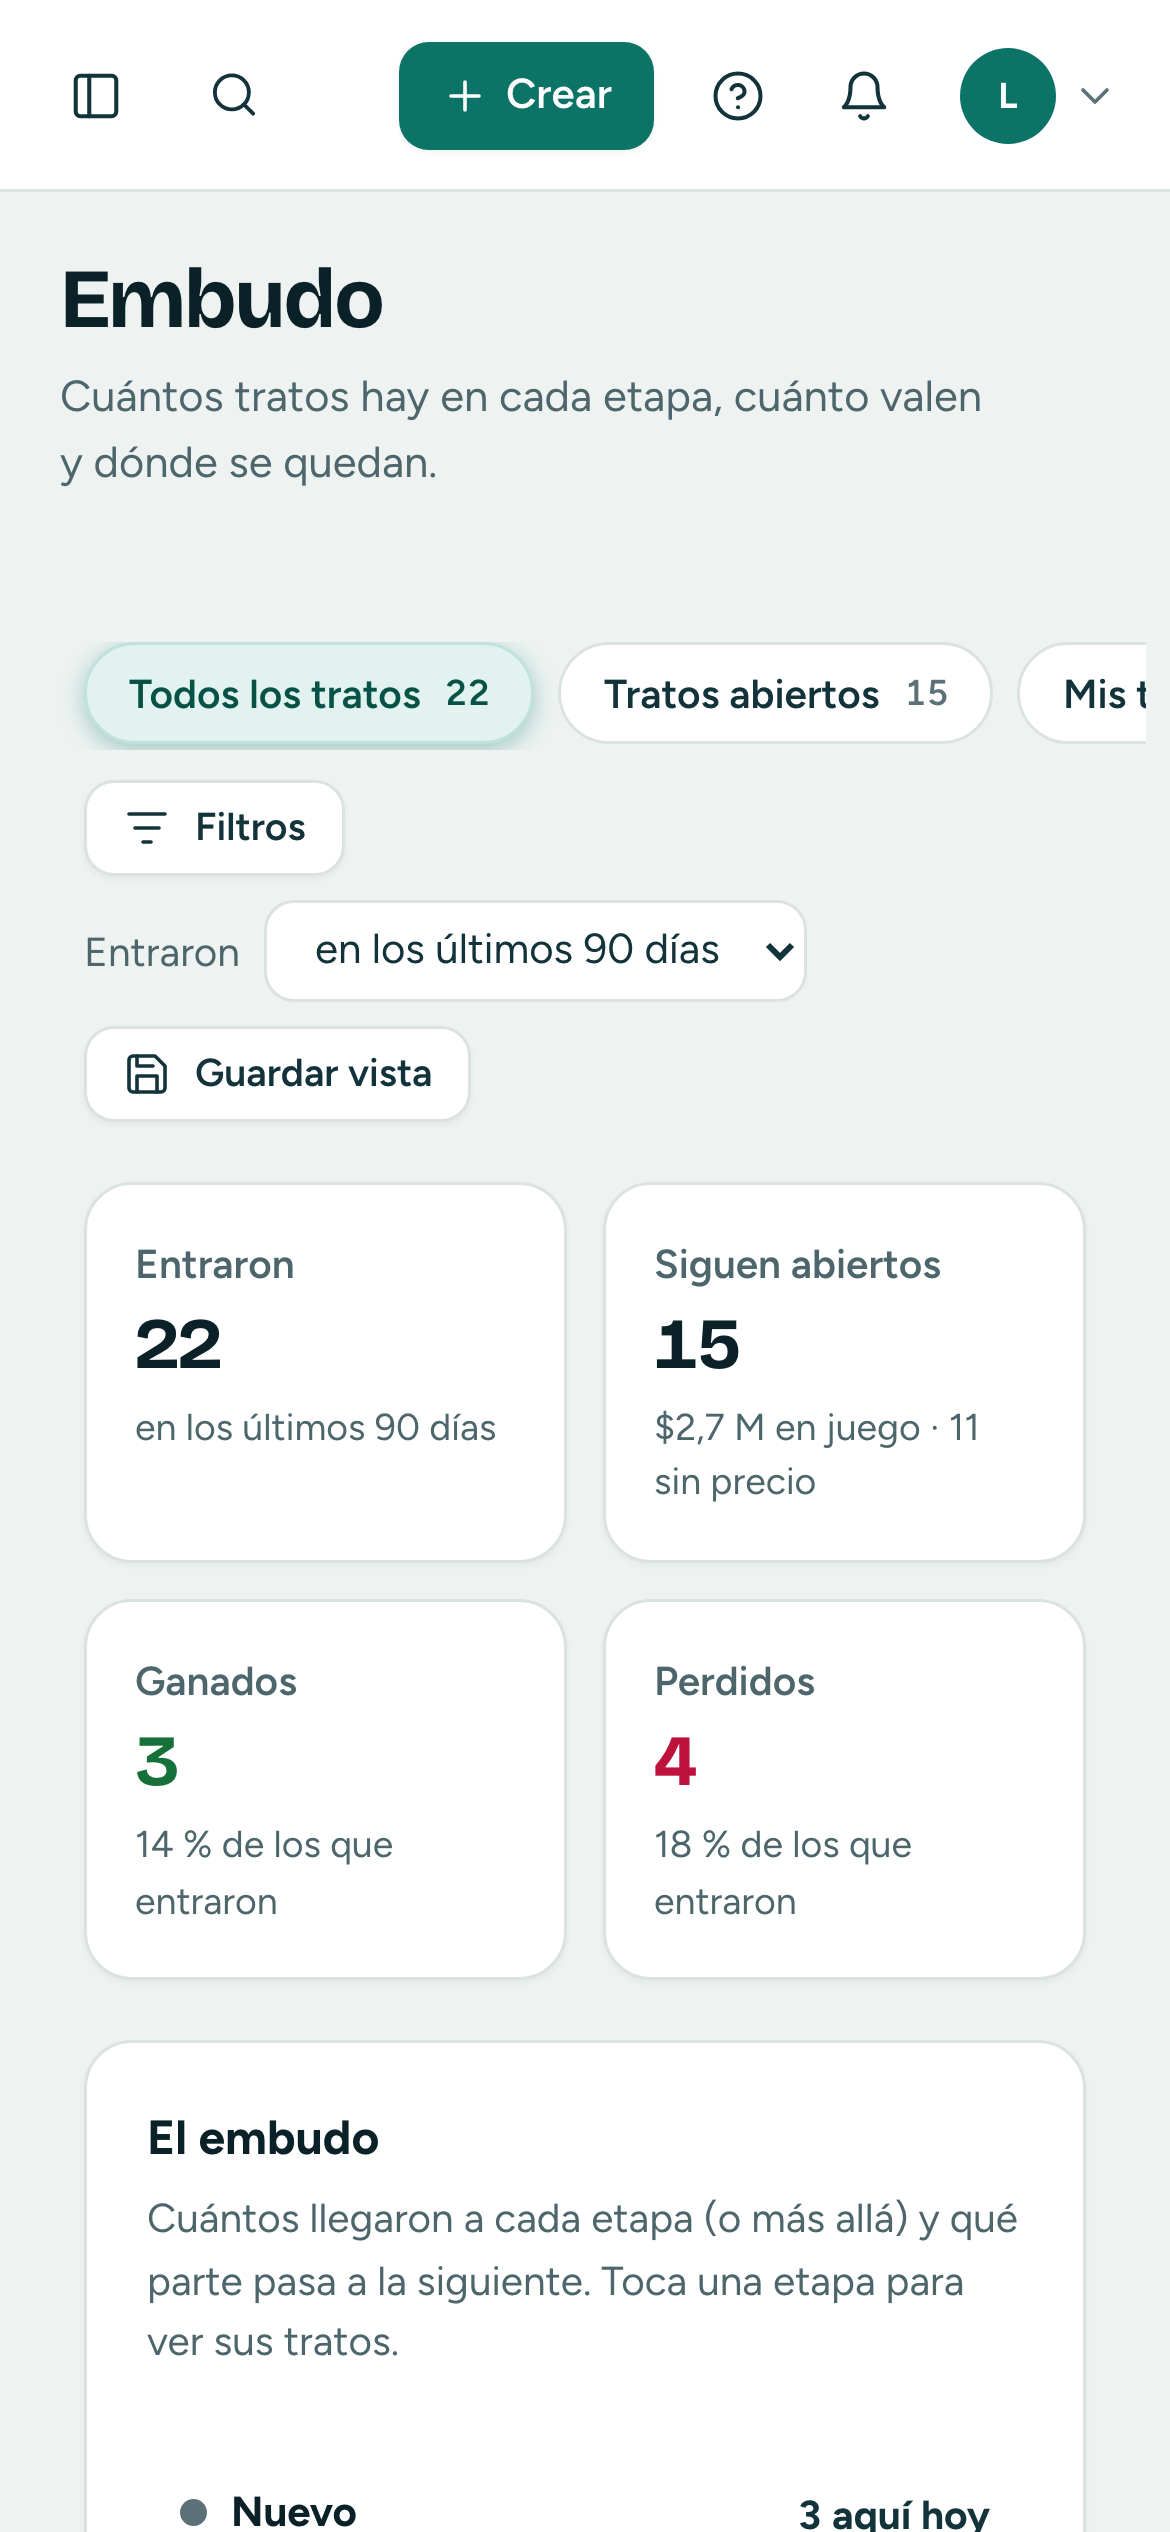
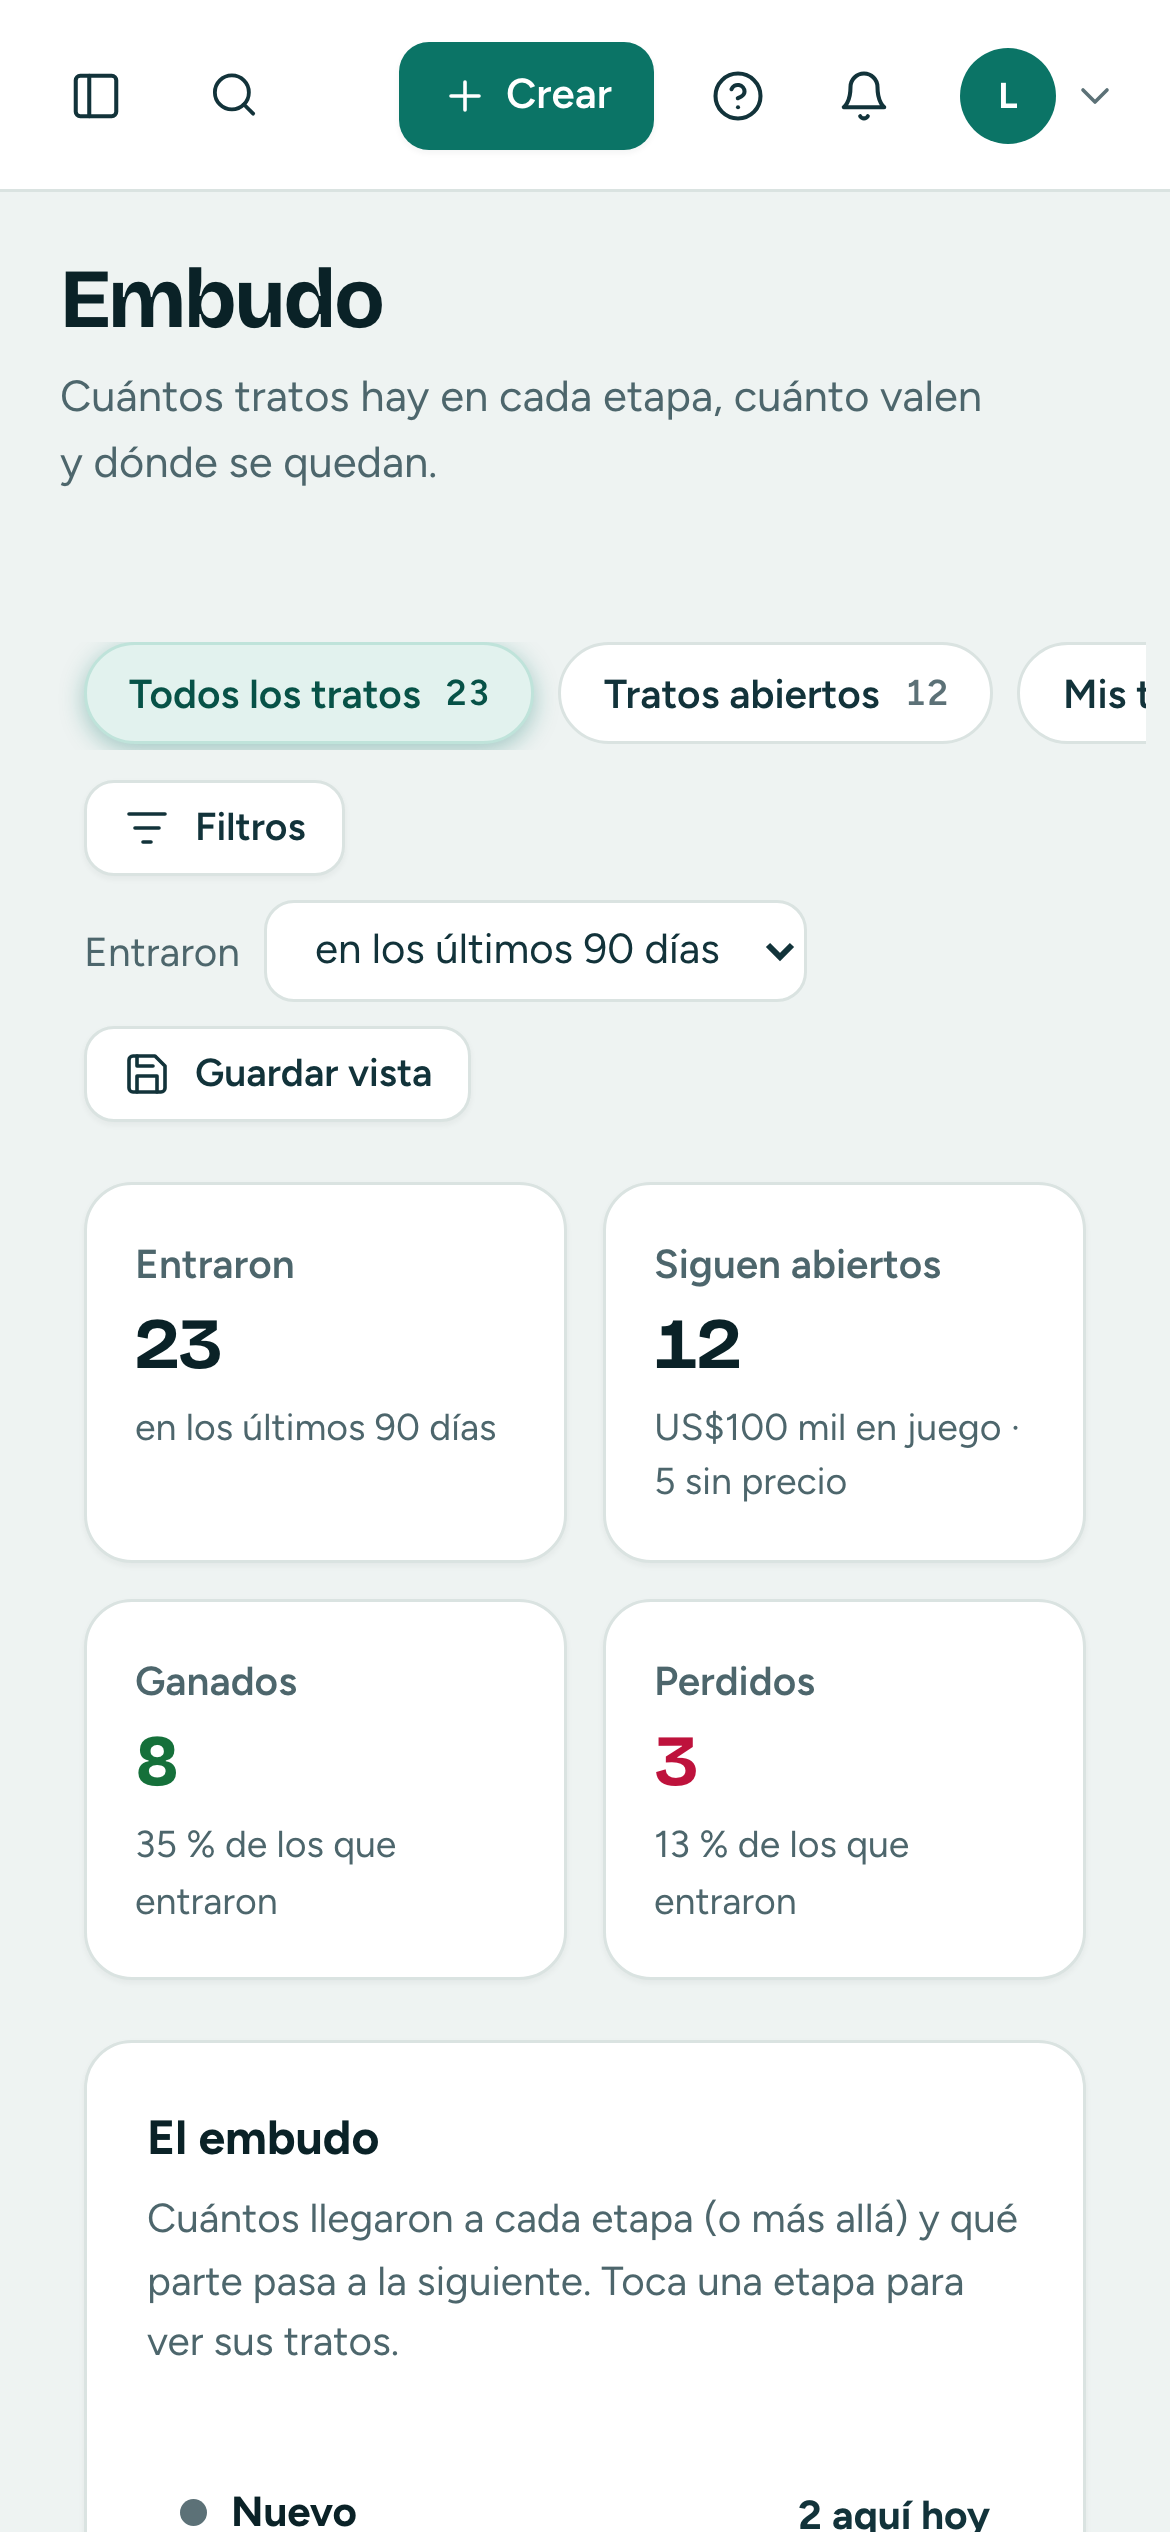
Bitácora, guía, checkpoint y capturas: Servicio, todo configurable y XENTRIS LLC
Las capturas se rehicieron con el ejemplo de XENTRIS LLC y cuenta de
administrador, solo en claro (como pidió el usuario): las 21 pantallas a 1440
(doble resolución) y a 390, con el área Servicio (Tickets, SLA,
Mantenimientos y actualizaciones) y Configuración (SLA y tickets,
Mantenimientos, Reglas y umbrales, Modelos de IA).

diff --git a/docs/xencrm.md b/docs/xencrm.md
@@ -8,12 +8,14 @@ este documento cambia, lo dice.
 
 ## El brief
 
-- **Sujeto**: el tablero donde el equipo de un negocio (DUNOR, una boutique con cita previa, es el primero) atiende
+- **Sujeto**: el tablero donde el equipo de un negocio (el ejemplo es XENTRIS LLC, una firma de software) atiende
   lo que llega por WhatsApp y por el chat del sitio, donde XEN —el agente de IA— contesta primero. Cada persona es un
-  contacto con su trato (etapa, valor, próximo paso) y sus citas.
-- **Audiencia**: asesores de venta y quien administra. En el computador de la tienda casi siempre, y en el celular
-  cuando están fuera. Con prisa: entre un cliente y otro.
-- **El trabajo**: que nadie se quede esperando y que ningún trato se enfríe sin que alguien lo vea.
+  contacto con su trato (etapa, valor, próximo paso), sus citas (o demos: la palabra la pone el negocio) y, si ya es
+  cliente, sus tickets.
+- **Audiencia**: asesores de venta, soporte y quien administra. En el computador de la oficina casi siempre, y en el celular
+  cuando están fuera. Con prisa: entre un cliente y otro. Y el equipo de soporte, que vive en Servicio.
+- **El trabajo**: que nadie se quede esperando, que ningún trato se enfríe sin que alguien lo vea y que lo prometido
+  a cada cliente (su SLA) se cumpla.
 
 ## Una sola piel
 
@@ -188,6 +190,42 @@ Lo que comparten las pantallas de Servicio (el contrato):
   notas, estado (publicada·planeada) }] }`. Lo siembra `crm/servicio-demo.ts`.
 
 
+### Cómo quedó Servicio y la configuración
+
+**Todo configurable.** El usuario lo pidió así: «todo debe ser configurable; la configuración hazla tan extensa como
+sea posible, no dejando nada por fuera». Toda regla de negocio se resuelve en **tres capas**, y manda la última que
+tenga valor: la **fábrica** (en el código) → el **archivo del cliente** (`xencrm.config.json`) → el **tablero**
+(Configuración, solo quien administra; en settings). Cada pantalla de configuración dice de qué capa sale cada valor
+y tiene «Volver al de fábrica»; guardar es todo o nada y lo escrito no se borra si algo no vale.
+
+| Dónde | Qué se configura |
+|---|---|
+| Configuración › **Reglas y umbrales** (`src/reglas.ts`, `reglas.<id>`, sección `reglas` del archivo) | 64 reglas: los cortes y los 16 pesos del puntaje, el silencio, seguimientos, cuentas clave (los 21 y 45 días), los 16 mínimos de Optimización, el embudo, Inicio, el acuerdo de respuesta, contactos, fijados, presencia, respuestas rápidas. Y la lista de lo que se configura en otro sitio, con su enlace |
+| Configuración › **SLA y tickets** (`crm/tickets.ts`, `servicio.sla`) | Planes (con alias), «sin plan», prioridades, tipos, estados (cuáles cierran y cuáles pausan), objetivos de primera respuesta y solución por plan × prioridad en reloj hábil o 24/7, el horario de soporte, «En riesgo» (75 %), la regla de primera respuesta, los campos de plan y producto, y quién crea, mueve y cambia las políticas |
+| Configuración › **Mantenimientos y actualizaciones** (`crm/mantenimientos-reglas.ts`, `servicio.mantenimientos`) | Aviso mínimo por plan (48 h · 72 h · 7 días), cadencia de actualizaciones (31 días, y por aplicación), días de gracia, aplicaciones, estados, quién cuenta como afectado y cómo se compara la aplicación, la plantilla del aviso (12 variables, con vista previa), si el aviso cuenta al salir o al prepararse, y quién programa. Los planes son los vigentes del SLA (las tres capas) |
+| `xencrm.config.json` › **`interfaz`** (`src/vocabulario.ts`) | Cómo se llama lo que se agenda (cita, demo, turno… y su género: «el turno agendado»), la bienvenida, los ejemplos de los campos y la portada. Unos 70 textos del tablero y 20 del servidor salen de aquí |
+| Lo que ya existía | El negocio, Perfil, El asistente, Modelos de IA, Lo que sabe, Canales, las metas de KPIs, el embudo (`crm.stages`), los datos captados (`crm.fields`), la agenda (`appointments`) |
+
+**Servicio**, pantalla por pantalla:
+
+- **Tickets**: cada uno con el estado del SLA en palabra e ícono (Incumplido · En riesgo · A tiempo · En pausa ·
+  Cumplido · Sin SLA) y el reloj en una frase («Responder antes de las 3:40 p. m. · en 2 h»); vistas Mis tickets,
+  Sin asignar, En riesgo, Incumplidos, Terminados; «Crear ticket» desde la Bandeja y la ficha, que muestra sus tickets.
+  El reloj hábil solo corre en el horario de soporte; «Esperando al cliente» pausa la solución (no la primera
+  respuesta); la primera respuesta es lo primero de: un mensaje de una persona del equipo (el agente de IA no
+  cuenta), «Marcar como respondido» o el cierre. Tabla `tickets`; se borran, unen y anonimizan con la ficha.
+- **SLA**: cumplimiento a 7 · 30 · 90 días con su base («4 de 5 tickets»), por plan y prioridad, medianas contra el
+  objetivo, lo que está en riesgo, y el resumen de mantenimientos y actualizaciones.
+- **Mantenimientos y actualizaciones**: ventanas con sus clientes afectados (ganados con el plan y la aplicación), el
+  estado del aviso de cada uno, y la cadencia por aplicación. **Ningún aviso sale solo**: «Preparar aviso» deja el
+  texto como propuesta en cada conversación y cuenta cuando de verdad salió (o con «Ya le avisé»).
+
+**El ejemplo** tiene 23 contactos por todo el embudo, planes en los ganados, 10 tickets en 8 clientes, 3 demos,
+mantenimientos y actualizaciones. **Las pruebas ya no dependen del ejemplo**: corren con su propio fixture
+(`src/eval/fixtures/boutique/`, «Atelier Demo», el antiguo contenido de DUNOR con datos de ficción), fijado con
+`XENCRM_CONFIG` en cada guion de `package.json`. Batería completa: 3433 bien, 0 fallas.
+
+## La suite (2026-11-11, segunda ronda)
 
 Sobre el mapa de Dynamics, cuatro pantallas nuevas, hechas en paralelo y unidas en `xencrm`. Todas se calculan en el
 servidor sobre lo guardado, **sin modelo y sin red**, y lo que no se sabe se dice («—», «Sin precios», «poca
@@ -209,10 +247,19 @@ evidencia»), nunca un cero inventado.
 - Pruebas nuevas: `test:embudo`, `test:kpis`, `test:kam`, `test:optimizacion`. Batería completa: 3069 bien, 0 fallas.
 
 ### Lo que queda abierto
+- Servicio: el Copiloto de Inicio todavía no propone los tickets en riesgo (su cifra es la suma de los recuadros de
+  Hoy; hay que rehacerla para sumarlos).
+- Tickets: en reloj hábil, el tiempo gastado deja de contarse a los 62 días (el vencimiento sí se decide bien).
+- Mantenimientos: preparar un aviso reemplaza la propuesta que hubiera en esa conversación (hay una sola por
+  conversación); los avisos de una ficha no se mudan al unir fichas.
+- Vocabulario: algunas respuestas al cliente conservan el pronombre de «cita» («yo la cancelo») con un nombre
+  masculino; la consola, `onboard` y las plantillas de `clientes/` siguen diciendo «cita».
+- Reglas: quedan por revisar la hora de los recordatorios (8:00 del día antes), `modo-prueba` (12 h), `entrantes`
+  (7 días) y `retener` (45 días).
 
 - La ficha como página no tiene «⋯»: el menú contextual de siempre cae debajo del diálogo.
-- Cuentas clave no se actualiza en vivo (se recarga al abrirla y tras cada acción); sus umbrales de 21 y 45 días están
-  fijos; quitar y volver a marcar reinicia el «desde».
+- Cuentas clave no se actualiza en vivo (se recarga al abrirla y tras cada acción); quitar y volver a marcar reinicia
+  el «desde». (Sus umbrales ya son reglas.)
 - KPIs: la asistencia cuenta solo citas pasadas y marcadas (las sin marcar se dicen aparte).
 - Optimización: la regla de horario cuenta por horas enteras.
 - El aviso de nota del panel (`chat-nota`) sigue además de la pestaña «Nota interna»: las pruebas de borradores lo

diff --git a/docs/checkpoint.md b/docs/checkpoint.md
@@ -19,12 +19,22 @@ renombre a XENCRM de la consola, la portada, el README y los textos. Batería de
 **La suite (segunda ronda)**: el menú se ordena como Dynamics 365 (Mi trabajo · Clientes · Ventas · Rendimiento, con
 el cambio de área a Configuración) y hay cuatro pantallas nuevas: Embudo (con el filtrado y las vistas guardadas en
 Contactos y Tratos), KPIs y metas, Cuentas clave (KAM) y Optimización de ventas. Detalle en `xencrm.md` › «La suite».
-Batería: 3069 bien, 0 fallas.
+Batería de entonces: 3069 bien, 0 fallas.
+
+**Servicio y XENTRIS (tercera ronda)**: el ejemplo de XENCRM es **XENTRIS LLC**, una firma de software
+(`examples/xentris`, la configuración de la raíz); DUNOR solo queda como historia y, con datos de ficción, como el
+fixture de las pruebas («Atelier Demo», `src/eval/fixtures/boutique/`). Hay un área nueva, **Servicio** (Tickets, SLA,
+Mantenimientos y actualizaciones), y **todo es configurable** en tres capas (fábrica → `xencrm.config.json` →
+tablero): Reglas y umbrales (64 reglas), SLA y tickets, Mantenimientos y actualizaciones, y el vocabulario de la
+interfaz (`interfaz`: «demo», «turno»…). Detalle en `xencrm.md` › «Servicio y el ejemplo de XENTRIS LLC».
+**Batería: 3433 bien, 0 fallas.**
 
 **Cómo verlo en local, sin tocar nada real**: una base aparte y sin llaves —
 `DB_PATH=<carpeta temporal>/demo.db PORT=3711 ADMIN_TOKEN=<inventado> OPENAI_API_KEY= ANTHROPIC_API_KEY=
 WHATSAPP_ENABLED=false XENCRM_ENV_FILE=<archivo vacío> npx tsx src/seed.ts` y luego `npx tsx src/index.ts` con lo
-mismo; el tablero en `http://127.0.0.1:3711/admin` con ese token.
+mismo; el tablero en `http://127.0.0.1:3711/admin` con ese token. Sin `XENCRM_CONFIG`, carga el ejemplo de
+XENTRIS. 🪤 Las pruebas fijan su propio `XENCRM_CONFIG`; correr una suite suelta con `npx tsx src/eval/x.ts` usa la
+raíz y puede fallar: usar `pnpm test:x`.
 
 **Para mirar.**
 
@@ -38,8 +48,10 @@ mismo; el tablero en `http://127.0.0.1:3711/admin` con ese token.
   de llaves `~/aiva-credenciales` (las herramientas ahora buscan `~/xencrm-credenciales`, que no existe) y el dominio
   de producción (el ZIP ahora arma `xencrm.hrctechnologies.com`, que no existe todavía). Decide el usuario: crear el
   repositorio y el dominio de XENCRM.
-- Lo abierto de la interfaz está en `xencrm.md` › «Lo que queda abierto» (el «⋯» de la ficha, el aviso de nota
-  duplicado en la bandeja, el tema oscuro de consola y portada).
+- Lo abierto de la interfaz está en `xencrm.md` › «Lo que queda abierto»: el Copiloto todavía sin los tickets en
+  riesgo, los avisos de mantenimiento al unir fichas, pronombres de «cita» en algunas respuestas al cliente, cuatro
+  plazos por llevar a Reglas, el «⋯» de la ficha, el aviso de nota duplicado en la bandeja y el tema oscuro de la
+  consola y la portada.
 - Sentimiento por voz: falta el modelo que escuche el audio. La pantalla no muestra cifras hasta entonces.
 - `docs/firebase.txt` (sin seguir en git) tiene claves en texto plano: sacarlo de la carpeta.
 - De aiva siguen valiendo, para cuando XENCRM tenga clientes: el respaldo con Claude sin llave en producción, Google

diff --git a/docs/arreglos.md b/docs/arreglos.md
@@ -9,6 +9,27 @@ El detalle técnico vive en [`arquitectura.md`](arquitectura.md), lo del tablero
 
 ## 2026-11-11
 
+### Servicio con SLA, todo configurable y el ejemplo XENTRIS LLC · `0e9ccb2` … `2d7c011`
+El usuario: «para XENCRM reemplaza DUNOR (del ejemplo) por XENTRIS LLC y que la temática no sea una boutique sino una
+firma de software (venta de aplicaciones, cumplimiento de SLAs: updates, mantenimientos, tickets)», y a mitad de
+camino: «todo debe ser configurable; la configuración hazla tan extensa como sea posible, no dejando nada por fuera».
+- **Cimientos** (`0e9ccb2`): el área Servicio en el mapa (Tickets, SLA, Mantenimientos y actualizaciones), el
+  borrador de XENTRIS y los enganches de la semilla para tickets y servicio, con su contrato en `xencrm.md`.
+- **Cuatro agentes en paralelo**: el registro de reglas (`448b37c`, 64 reglas), Mantenimientos y actualizaciones
+  (`0a95b11`), el ejemplo XENTRIS (`1275d2a`, con el vocabulario de la agenda configurable) y Tickets y SLA
+  (`19ade06`). Al requisito de «todo configurable» se les avisó con mensajes a los que ya trabajaban.
+- 🪤 **Las pruebas leían el ejemplo de la raíz**: con otro negocio en la raíz, la batería se caía al empezar
+  («recap completo» esperaba la prenda de la boutique). Ahora corren con su propio fixture («Atelier Demo», el
+  contenido de DUNOR con datos de ficción) fijado con `XENCRM_CONFIG`.
+- **Al integrar**: los choques de reglas (números) contra vocabulario (palabras) en el puntaje y Cuentas clave se
+  resolvieron quedándose con los dos; las etiquetas de varias reglas todavía decían «cita» (lo atrapó
+  `test:ejemplo`); las dos secciones `servicio` del esquema se unieron en una; Mantenimientos leía los planes del SLA
+  solo del archivo y ahora lee los vigentes (las tres capas), para que «Pro» sea el mismo en las dos pantallas.
+- 🪤 Un descuido mío en la guía: al insertar la sección de Servicio se perdió el título de la segunda ronda (el
+  reemplazo no volvía a poner el ancla). Restituido.
+- Comprobado: batería completa 3433 bien, 0 fallas; `tsc` limpio; todas las pantallas en Chrome como administrador,
+  a 1440 y a 390 en claro, sin errores de JavaScript ni desborde. Capturas en `capturas/xencrm-next-evolution/`.
+
 ### La suite, como Dynamics 365: mapa, embudo, filtrado, KPIs, cuentas clave y optimización · `0e8d3fc` … `e7e9f22`
 El usuario: «Organiza el menú como Dynamics 365. Embudo, filtrado, suite completa CRM, optimización de ventas, KPIs,
 panel KAM… XenCRM quiero que precisamente evolucione».
